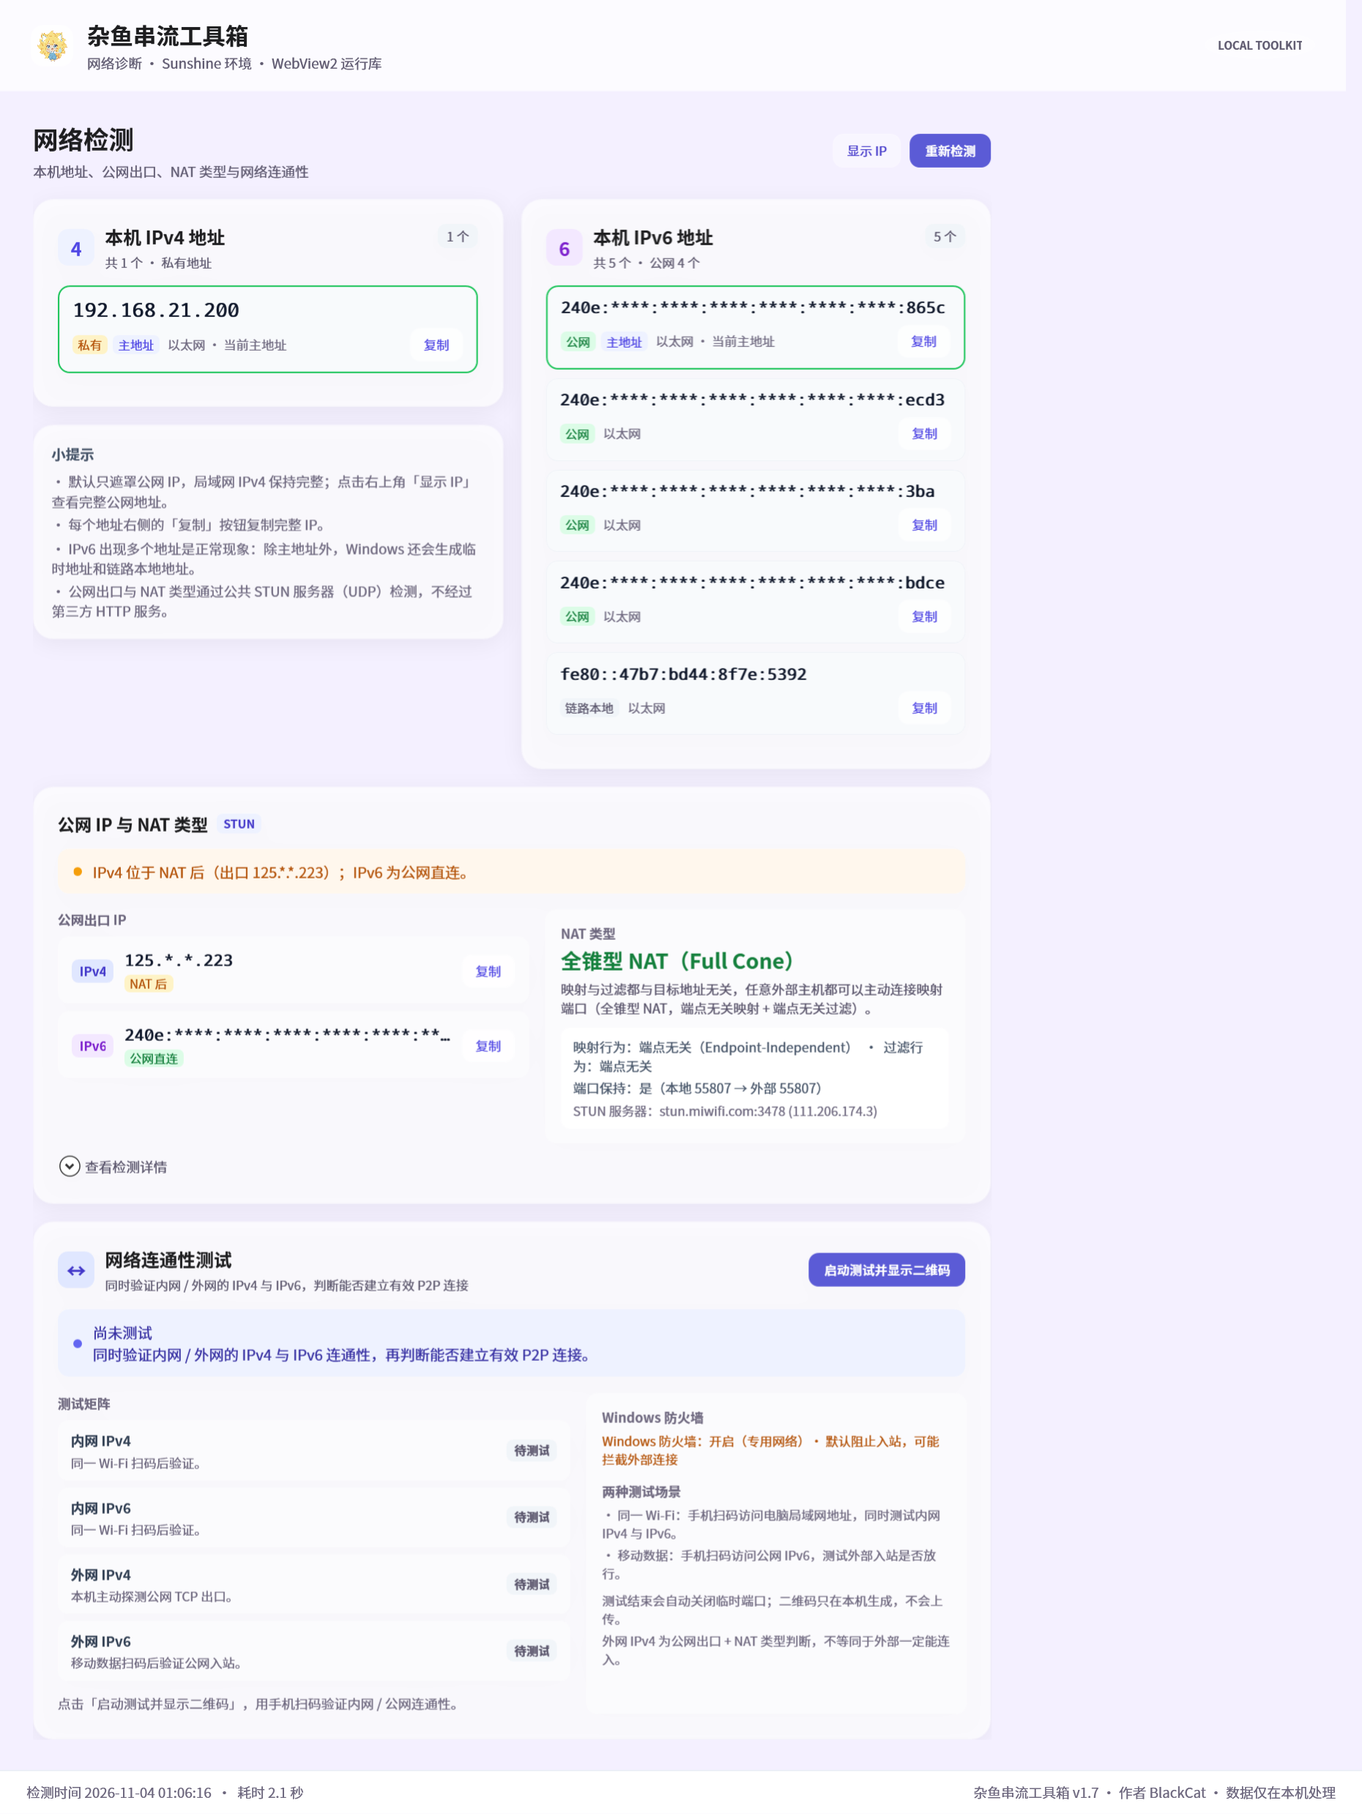
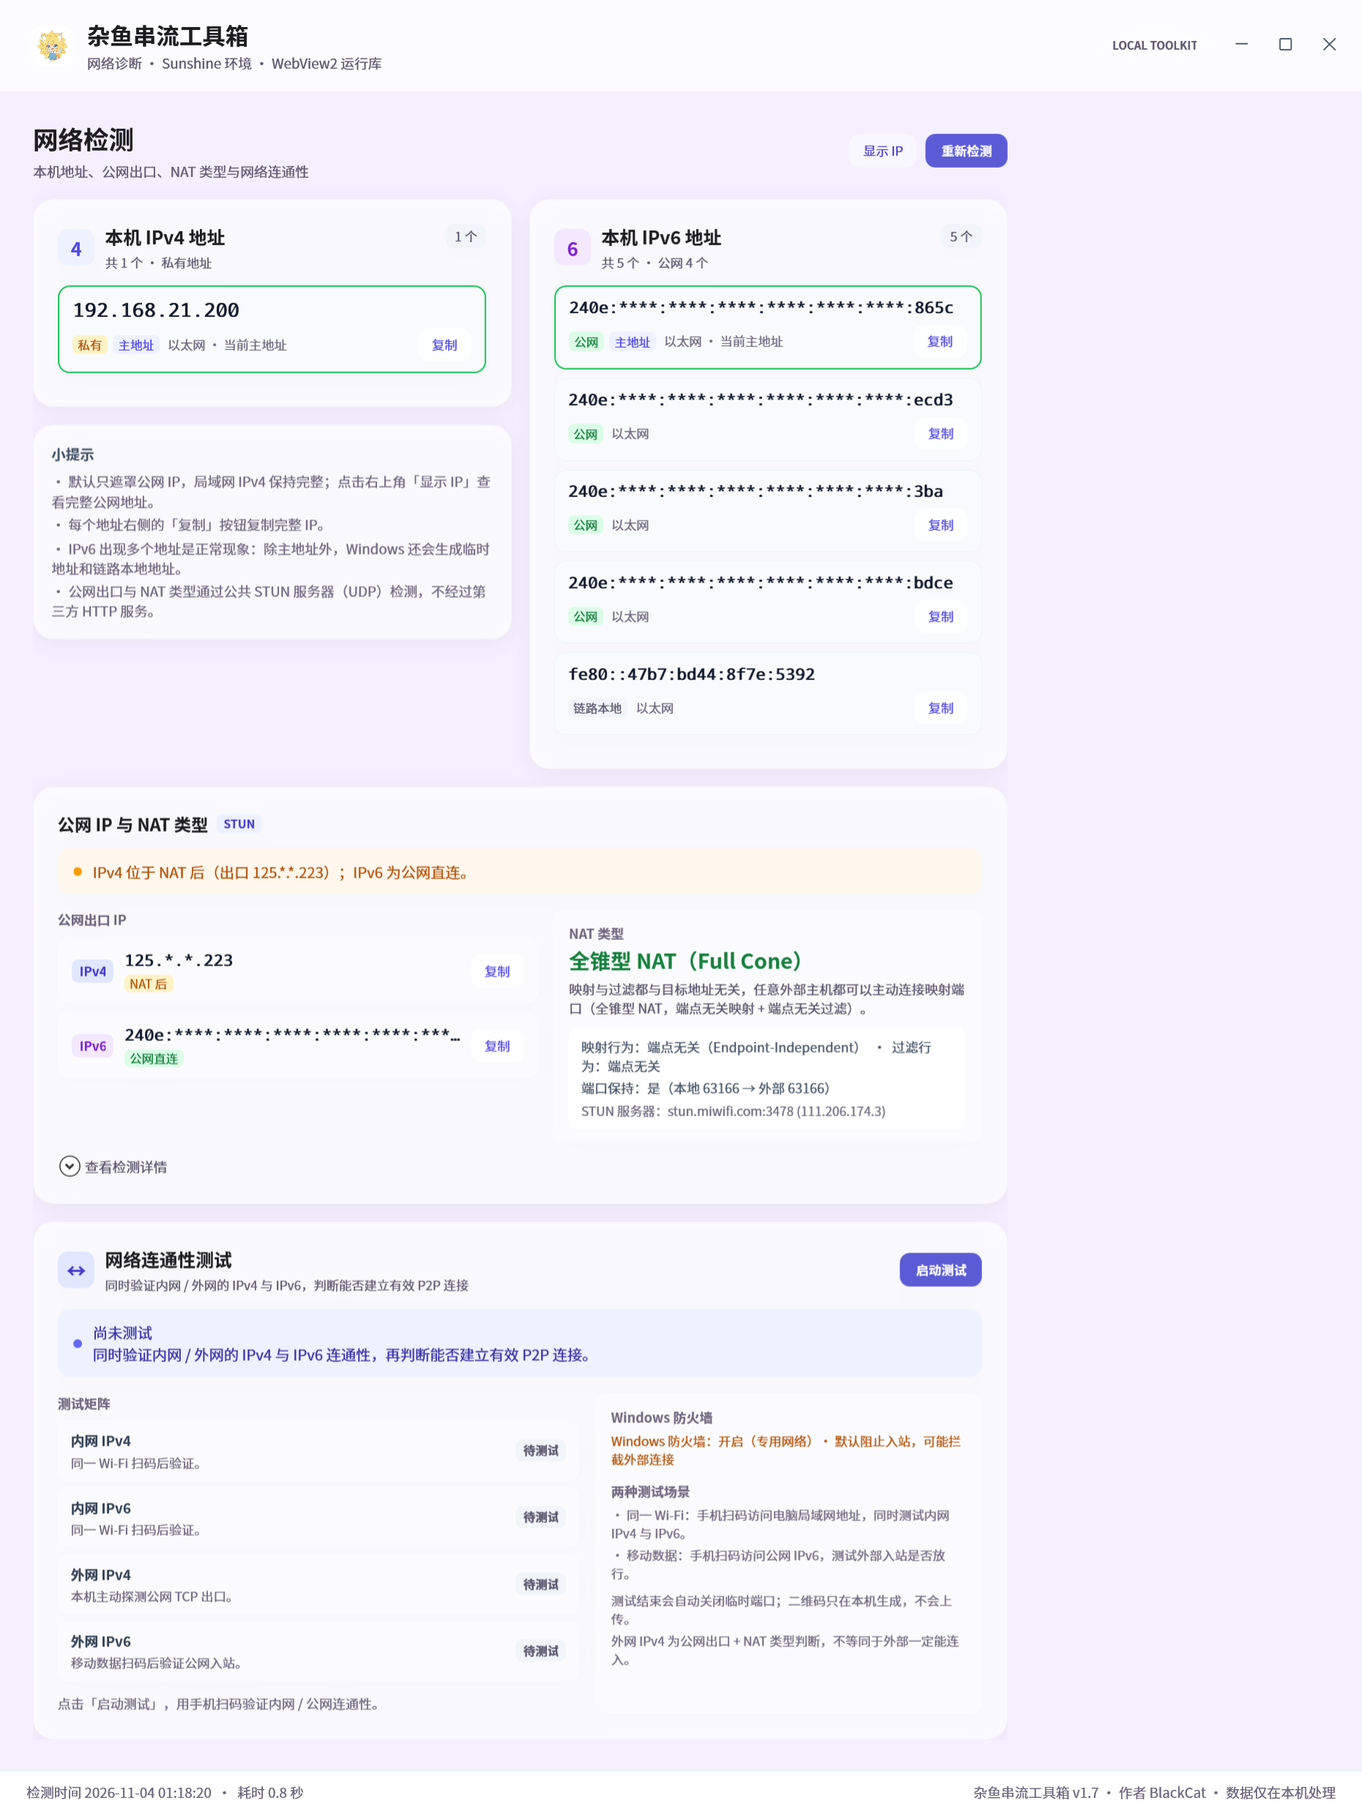
style: 无边框标题栏与侧边栏布局优化

diff --git a/src/IpInfo.App/MainWindow.xaml b/src/IpInfo.App/MainWindow.xaml
@@ -2,9 +2,12 @@
         xmlns="http://schemas.microsoft.com/winfx/2006/xaml/presentation"
         xmlns:x="http://schemas.microsoft.com/winfx/2006/xaml"
         xmlns:views="clr-namespace:IpInfo.App"
+        xmlns:shell="clr-namespace:System.Windows.Shell;assembly=PresentationFramework"
         Title="杂鱼串流工具箱"
         Width="1240" Height="900"
         MinWidth="1040" MinHeight="740"
+        WindowStyle="None"
+        ResizeMode="CanResize"
         WindowStartupLocation="CenterScreen"
         FocusVisualStyle="{x:Null}"
         Background="{StaticResource BgBrush}"
@@ -13,6 +16,11 @@
         SnapsToDevicePixels="True"
         TextOptions.TextFormattingMode="Ideal"
         TextOptions.TextRenderingMode="ClearType">
+    <shell:WindowChrome.WindowChrome>
+        <shell:WindowChrome CaptionHeight="0" ResizeBorderThickness="6"
+                            GlassFrameThickness="0" CornerRadius="0"
+                            UseAeroCaptionButtons="False"/>
+    </shell:WindowChrome.WindowChrome>
     <Grid>
         <Grid.RowDefinitions>
             <RowDefinition Height="Auto"/>
@@ -73,8 +81,9 @@
         </Border>
 
         <!-- 顶部标题栏：轻玻璃条 -->
-        <Border x:Name="HeaderBorder" Grid.Row="0" Padding="28,16"
-                Background="#B8FFFFFF" BorderBrush="#80FFFFFF" BorderThickness="0,0,0,1">
+        <Border x:Name="HeaderBorder" Grid.Row="0" Padding="28,16,10,16"
+                Background="#B8FFFFFF" BorderBrush="#80FFFFFF" BorderThickness="0,0,0,1"
+                MouseLeftButtonDown="HeaderBorder_MouseLeftButtonDown">
             <Grid>
                 <Grid.ColumnDefinitions>
                     <ColumnDefinition Width="*"/>
@@ -93,11 +102,28 @@
                     </StackPanel>
                 </StackPanel>
 
-                <Border Grid.Column="1" Background="#66FFFFFF" BorderBrush="#80FFFFFF"
-                        BorderThickness="1" CornerRadius="999" Padding="11,5" VerticalAlignment="Center">
-                    <TextBlock Text="LOCAL TOOLKIT" FontSize="10" FontWeight="SemiBold"
-                               Foreground="#5F5A70"/>
-                </Border>
+                <StackPanel Grid.Column="1" Orientation="Horizontal"
+                            HorizontalAlignment="Right" VerticalAlignment="Center">
+                    <Border Background="#66FFFFFF" BorderBrush="#80FFFFFF"
+                            BorderThickness="1" CornerRadius="999" Padding="11,5"
+                            VerticalAlignment="Center">
+                        <TextBlock Text="LOCAL TOOLKIT" FontSize="10" FontWeight="SemiBold"
+                                   Foreground="#5F5A70"/>
+                    </Border>
+                    <StackPanel Orientation="Horizontal" Margin="10,0,0,0">
+                        <Button x:Name="MinimizeWindowButton" Content="&#xE921;"
+                                Style="{StaticResource CaptionButton}"
+                                ToolTip="最小化" Click="MinimizeWindowButton_Click"/>
+                        <Button x:Name="MaximizeWindowButton" Content="&#xE922;"
+                                Style="{StaticResource CaptionButton}"
+                                ToolTip="最大化" Margin="2,0,0,0"
+                                Click="MaximizeWindowButton_Click"/>
+                        <Button x:Name="CloseWindowButton" Content="&#xE8BB;"
+                                Style="{StaticResource CloseCaptionButton}"
+                                ToolTip="关闭" Margin="2,0,0,0"
+                                Click="CloseWindowButton_Click"/>
+                    </StackPanel>
+                </StackPanel>
             </Grid>
         </Border>
 
@@ -112,25 +138,21 @@
                     BorderBrush="#80FFFFFF" BorderThickness="1" CornerRadius="18"
                     Effect="{DynamicResource SidebarShadow}">
                 <DockPanel Margin="12,16,12,12">
-                    <TextBlock DockPanel.Dock="Top" Text="功能分区" FontSize="11.5" FontWeight="SemiBold"
-                               Foreground="#5F5A70" Margin="10,0,0,10"/>
+                    <TextBlock DockPanel.Dock="Top" Text="功能分区" FontSize="13.5" FontWeight="Bold"
+                               Foreground="#4B4360" Margin="10,0,0,12"/>
 
                     <Border DockPanel.Dock="Bottom" Margin="0,12,0,0" Background="#66FFFFFF"
                             BorderBrush="#80FFFFFF" BorderThickness="1" CornerRadius="12"
                             Padding="12,10">
-                        <StackPanel>
-                            <TextBlock Text="杂鱼串流工具箱" FontSize="12.5" FontWeight="SemiBold"
-                                       Foreground="#1D1D1F"/>
-                            <TextBlock x:Name="AppVersionText" Text="v1.7 · 本地运行" FontSize="11"
-                                       Foreground="#5F5A70" Margin="0,2,0,0"/>
-                            <TextBlock x:Name="UpdateStatusText" Text="检查更新中…"
-                                       FontSize="10.5" Foreground="#6E687F" TextWrapping="Wrap"
-                                       Margin="0,3,0,0"
-                                       AutomationProperties.AutomationId="UpdateStatusText"/>
-                            <Button x:Name="UpdateActionButton" Content="查看更新"
+                        <StackPanel HorizontalAlignment="Center">
+                            <TextBlock Text="杂鱼串流工具箱" FontSize="13" FontWeight="SemiBold"
+                                       HorizontalAlignment="Center" Foreground="#1D1D1F"/>
+                            <TextBlock x:Name="AppVersionText" Text="v1.7 · 本地运行" FontSize="11.5"
+                                       HorizontalAlignment="Center" Foreground="#5F5A70" Margin="0,2,0,0"/>
+                            <Button x:Name="UpdateActionButton" Content="检查更新"
                                     Style="{StaticResource CopyButton}"
-                                    FontSize="10.5" Padding="8,2" Margin="0,5,0,0"
-                                    HorizontalAlignment="Left" Visibility="Collapsed"
+                                    FontSize="11" Padding="10,4" Margin="0,8,0,0"
+                                    HorizontalAlignment="Center"
                                     AutomationProperties.AutomationId="UpdateActionButton"
                                     Click="UpdateActionButton_Click"/>
                         </StackPanel>

diff --git a/src/IpInfo.App/App.xaml b/src/IpInfo.App/App.xaml
@@ -104,6 +104,64 @@
             <Setter Property="Margin" Value="0,4,0,0"/>
         </Style>
 
+        <Style x:Key="CaptionButton" TargetType="{x:Type Button}">
+            <Setter Property="Width" Value="38"/>
+            <Setter Property="Height" Value="30"/>
+            <Setter Property="Background" Value="Transparent"/>
+            <Setter Property="Foreground" Value="#475569"/>
+            <Setter Property="BorderThickness" Value="0"/>
+            <Setter Property="Padding" Value="0"/>
+            <Setter Property="Cursor" Value="Hand"/>
+            <Setter Property="Focusable" Value="False"/>
+            <Setter Property="FocusVisualStyle" Value="{x:Null}"/>
+            <Setter Property="FontFamily" Value="Segoe Fluent Icons, Segoe MDL2 Assets"/>
+            <Setter Property="FontSize" Value="11"/>
+            <Setter Property="Template">
+                <Setter.Value>
+                    <ControlTemplate TargetType="{x:Type Button}">
+                        <Border x:Name="Bd" Background="{TemplateBinding Background}"
+                                CornerRadius="7">
+                            <ContentPresenter HorizontalAlignment="Center"
+                                              VerticalAlignment="Center"
+                                              TextElement.Foreground="{TemplateBinding Foreground}"/>
+                        </Border>
+                        <ControlTemplate.Triggers>
+                            <Trigger Property="IsMouseOver" Value="True">
+                                <Setter TargetName="Bd" Property="Background" Value="#1A000000"/>
+                            </Trigger>
+                            <Trigger Property="IsPressed" Value="True">
+                                <Setter TargetName="Bd" Property="Background" Value="#29000000"/>
+                            </Trigger>
+                        </ControlTemplate.Triggers>
+                    </ControlTemplate>
+                </Setter.Value>
+            </Setter>
+        </Style>
+
+        <Style x:Key="CloseCaptionButton" TargetType="{x:Type Button}" BasedOn="{StaticResource CaptionButton}">
+            <Setter Property="Template">
+                <Setter.Value>
+                    <ControlTemplate TargetType="{x:Type Button}">
+                        <Border x:Name="Bd" Background="{TemplateBinding Background}"
+                                CornerRadius="7">
+                            <ContentPresenter HorizontalAlignment="Center"
+                                              VerticalAlignment="Center"
+                                              TextElement.Foreground="{TemplateBinding Foreground}"/>
+                        </Border>
+                        <ControlTemplate.Triggers>
+                            <Trigger Property="IsMouseOver" Value="True">
+                                <Setter TargetName="Bd" Property="Background" Value="#E81123"/>
+                                <Setter Property="Foreground" Value="White"/>
+                            </Trigger>
+                            <Trigger Property="IsPressed" Value="True">
+                                <Setter TargetName="Bd" Property="Background" Value="#C50F1F"/>
+                            </Trigger>
+                        </ControlTemplate.Triggers>
+                    </ControlTemplate>
+                </Setter.Value>
+            </Setter>
+        </Style>
+
         <Style x:Key="CopyButton" TargetType="{x:Type Button}">
             <Setter Property="Background" Value="#B3FFFFFF"/>
             <Setter Property="Foreground" Value="#4F46E5"/>

diff --git a/src/IpInfo.App/MainWindow.xaml.cs b/src/IpInfo.App/MainWindow.xaml.cs
@@ -88,6 +88,70 @@ namespace IpInfo.App
             Loaded += MainWindow_Loaded;
             Closed += MainWindow_Closed;
             DpiChanged += MainWindow_DpiChanged;
+            StateChanged += MainWindow_StateChanged;
+        }
+
+        private void HeaderBorder_MouseLeftButtonDown(object sender, MouseButtonEventArgs e)
+        {
+            if (FindButtonAncestor(e.OriginalSource as DependencyObject) != null) return;
+            if (e.ClickCount == 2)
+            {
+                ToggleMaximizeWindow();
+                return;
+            }
+            if (WindowState == WindowState.Normal)
+            {
+                try { DragMove(); }
+                catch { }
+            }
+        }
+
+        private static Button FindButtonAncestor(DependencyObject source)
+        {
+            while (source != null)
+            {
+                Button button = source as Button;
+                if (button != null) return button;
+                try
+                {
+                    source = VisualTreeHelper.GetParent(source);
+                }
+                catch
+                {
+                    return null;
+                }
+            }
+            return null;
+        }
+
+        private void ToggleMaximizeWindow()
+        {
+            WindowState = WindowState == WindowState.Maximized
+                ? WindowState.Normal
+                : WindowState.Maximized;
+        }
+
+        private void MinimizeWindowButton_Click(object sender, RoutedEventArgs e)
+        {
+            WindowState = WindowState.Minimized;
+        }
+
+        private void MaximizeWindowButton_Click(object sender, RoutedEventArgs e)
+        {
+            ToggleMaximizeWindow();
+        }
+
+        private void CloseWindowButton_Click(object sender, RoutedEventArgs e)
+        {
+            Close();
+        }
+
+        private void MainWindow_StateChanged(object sender, EventArgs e)
+        {
+            if (MaximizeWindowButton == null) return;
+            bool maximized = WindowState == WindowState.Maximized;
+            MaximizeWindowButton.Content = maximized ? "\uE923" : "\uE922";
+            MaximizeWindowButton.ToolTip = maximized ? "还原" : "最大化";
         }
 
         private void MainWindow_DpiChanged(object sender, DpiChangedEventArgs e)
@@ -319,13 +383,14 @@ namespace IpInfo.App
 
         private async void CheckForUpdatesAsync()
         {
-            if (_updateCheckBusy || UpdateStatusText == null) return;
+            if (_updateCheckBusy || UpdateActionButton == null) return;
             _updateCheckBusy = true;
             _updateReleaseUrl = null;
             _updateCts = new CancellationTokenSource();
-            UpdateStatusText.Text = "检查更新中…";
-            UpdateStatusText.Foreground = UiPalette.MutedFg;
-            UpdateActionButton.Visibility = Visibility.Collapsed;
+            UpdateActionButton.Visibility = Visibility.Visible;
+            UpdateActionButton.IsEnabled = false;
+            UpdateActionButton.Content = "检查中…";
+            UpdateActionButton.ToolTip = null;
 
             try
             {
@@ -333,42 +398,35 @@ namespace IpInfo.App
                     GetAppVersion(), _updateCts.Token);
                 if (result != null && result.HasUpdate)
                 {
-                    UpdateStatusText.Text = "发现新版本 v" + result.LatestVersion;
-                    UpdateStatusText.Foreground = UiPalette.IndigoFg;
                     _updateReleaseUrl = result.ReleaseUrl;
-                    UpdateActionButton.Content = "查看更新";
-                    UpdateActionButton.Visibility = Visibility.Visible;
+                    UpdateActionButton.Content = "发现更新 v" + result.LatestVersion;
+                    UpdateActionButton.ToolTip = "点击打开 GitHub Release";
                 }
                 else if (result != null && result.HasReleaseInfo)
                 {
-                    UpdateStatusText.Text = "已是最新版本";
-                    UpdateStatusText.Foreground = UiPalette.MutedFg;
-                    UpdateActionButton.Content = "重新检查";
-                    UpdateActionButton.Visibility = Visibility.Visible;
+                    UpdateActionButton.Content = "已是最新版本";
+                    UpdateActionButton.ToolTip = "点击重新检查更新";
                 }
                 else
                 {
-                    UpdateStatusText.Text = string.IsNullOrEmpty(result == null ? null : result.Error)
+                    UpdateActionButton.Content = "检查更新";
+                    UpdateActionButton.ToolTip = string.IsNullOrEmpty(result == null ? null : result.Error)
                         ? "暂无发布版本" : result.Error;
-                    UpdateStatusText.Foreground = UiPalette.MutedFg;
-                    UpdateActionButton.Content = "重新检查";
-                    UpdateActionButton.Visibility = Visibility.Visible;
                 }
             }
             catch (OperationCanceledException)
             {
-                UpdateStatusText.Text = "已取消更新检查";
+                UpdateActionButton.Content = "检查更新";
             }
             catch (Exception ex)
             {
-                UpdateStatusText.Text = "更新检查失败：" + ex.Message;
-                UpdateStatusText.Foreground = UiPalette.WarnFg;
-                UpdateActionButton.Content = "重试";
-                UpdateActionButton.Visibility = Visibility.Visible;
+                UpdateActionButton.Content = "检查更新";
+                UpdateActionButton.ToolTip = "更新检查失败：" + ex.Message;
             }
             finally
             {
                 _updateCheckBusy = false;
+                UpdateActionButton.IsEnabled = true;
                 if (_updateCts != null)
                 {
                     _updateCts.Dispose();
@@ -387,8 +445,8 @@ namespace IpInfo.App
                 }
                 catch (Exception ex)
                 {
-                    UpdateStatusText.Text = "打开更新页面失败：" + ex.Message;
-                    UpdateStatusText.Foreground = UiPalette.WarnFg;
+                    UpdateActionButton.Content = "打开失败";
+                    UpdateActionButton.ToolTip = ex.Message;
                 }
                 return;
             }

diff --git a/README.md b/README.md
@@ -51,11 +51,13 @@
   - Sunshine 环境页右上角提供「Sunshine 基地版官网」按钮，跳转 `https://www.alkaidlab.cn/`
 - **版本更新检测**
   - 启动时从 GitHub `BlackShinex/ZayuToolbox` 的 Release / Tag 自动检查更新
-  - 有新版本时只在左下角显示「发现新版本 vX.Y」和「查看更新」，不弹窗、不打断操作
-  - 已是最新时显示「已是最新版本」，网络失败时显示失败原因并允许重新检查
-- **界面字体**
+  - 有新版本时左下角更新按钮显示「发现更新 vX.Y」，点击打开 GitHub Release，不弹窗、不打断操作
+  - 已是最新时按钮显示「已是最新版本」，点击可重新检查
+- **界面字体与窗口**
   - 界面使用随程序嵌入的思源黑体 Source Han Sans SC，数字 / 地址使用 Noto Sans Mono
   - 两者均为 SIL Open Font License 1.1，不依赖系统微软雅黑或 Consolas
+  - 无边框窗口：移除 Windows 标题栏，应用内集成最小化 / 最大化 / 关闭按钮，标题栏与主体一体化
+  - 侧边栏底部工具名称、版本和更新按钮居中显示
 - **一键自检**
   - 自动汇总系统版本、CPU、内存、显卡型号与驱动版本
   - 汇总 Sunshine 版本、安装状态、服务运行 / 启动类型、虚拟显示器及驱动版本

diff --git a/CHANGELOG.md b/CHANGELOG.md
@@ -38,6 +38,8 @@
 - 组件状态页改为按大类卡片分组展示：基础环境、显示与输入、音频、USB 透传、画质增强。
 - 网络连通性测试按钮改为「启动测试」；未检测 IP 时点击会先自动检测 IP，再直接启动测试。
 - 一键自检的 Windows 版本增加 `26H2` 这类显示版本标注。
+- 移除 Windows 系统标题栏，改为应用内一体化标题栏，并集成最小化 / 最大化 / 关闭按钮。
+- 放大侧边栏「功能分区」字号；底部名称、版本和更新检查改为居中显示，版本检查变为按钮。
 - 组件状态新增单独「修复 / 卸载」：
   - ZakoDisplay、Zako 虚拟鼠标使用基地版 tools 目录中的 INF 重新安装 / 移除设备与驱动；
   - DualSense 按基地版 `ds5-sidecar-package.json` 的官方 Release 地址下载完整 `Sunshine.Ds5Sidecar.x64.zip`，校验 SHA-256、组件版本、协议、HIDMaestro 版本与 USB/IP 0.9.8.1 兼容性后安装；
